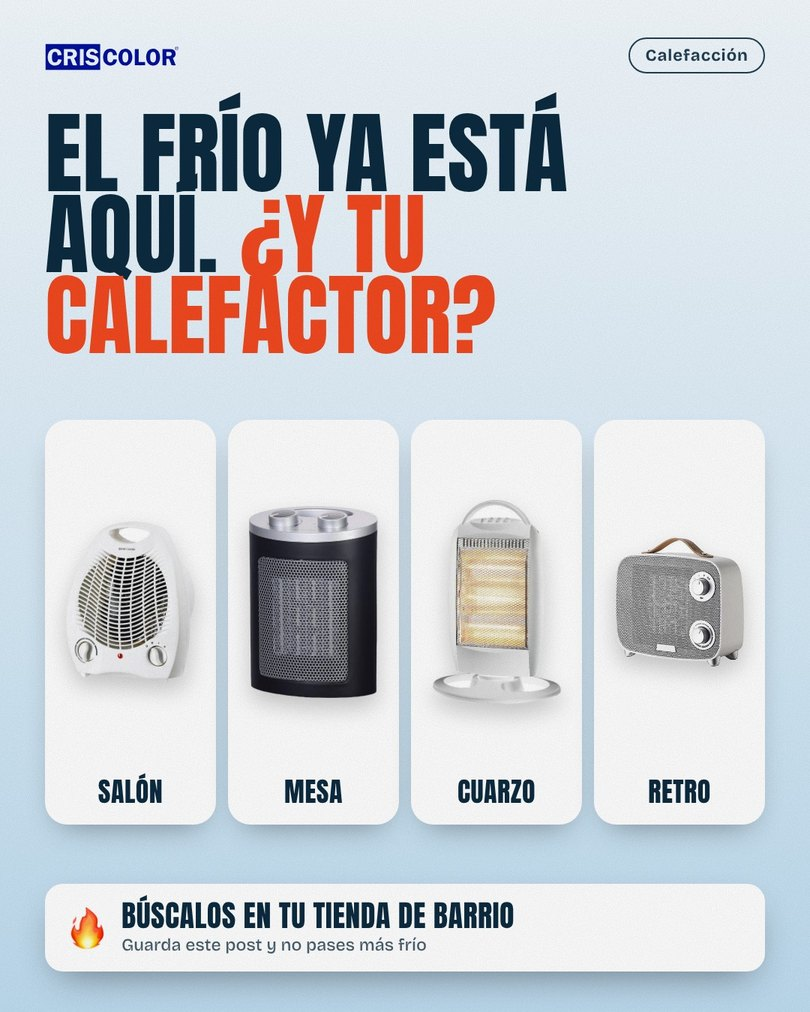
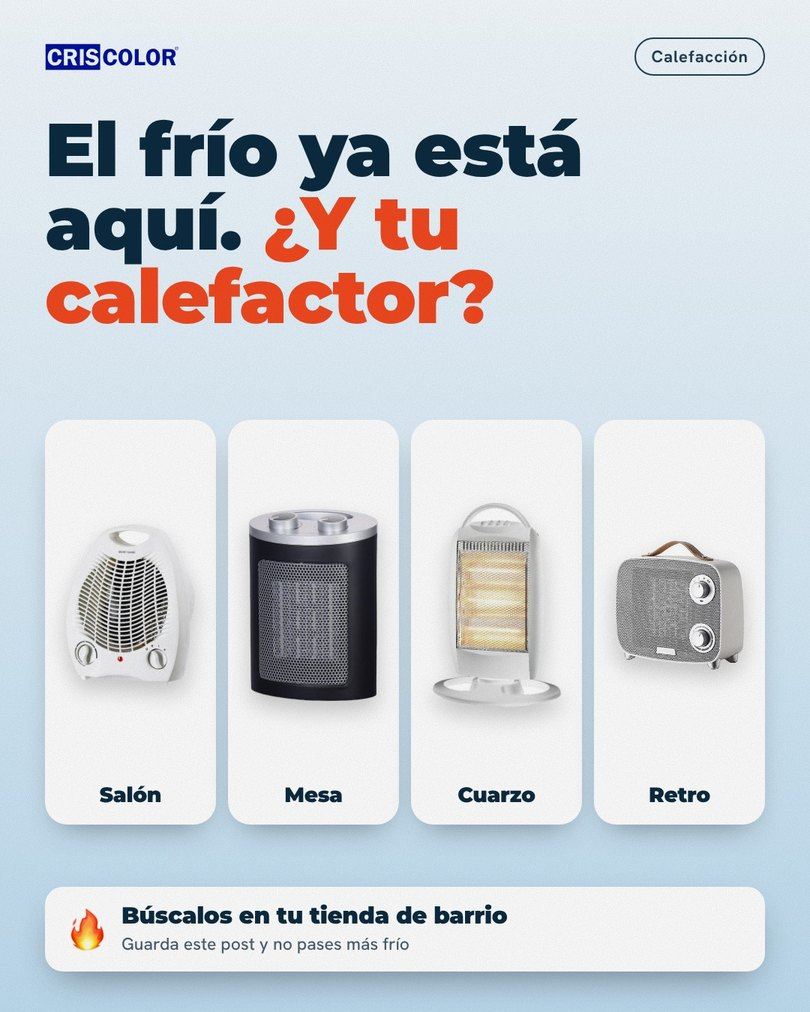
Tipografía de la web (Montserrat Black + Hanken Grotesk) en historias y posts
Claude-Session: https://claude.ai/code/session_016vX2tAnYJNsb3voomsbycX

diff --git a/data/weeks.js b/data/weeks.js
@@ -7,7 +7,7 @@ window.WEEKS = [
   "items": [
    {
     "id": "s46-lun",
-    "v": 1,
+    "v": 2,
     "type": "story",
     "day": "Lunes",
     "date": "9 nov",
@@ -17,7 +17,7 @@ window.WEEKS = [
    },
    {
     "id": "p46-mar",
-    "v": 1,
+    "v": 2,
     "type": "post",
     "day": "Martes",
     "date": "10 nov",
@@ -28,7 +28,7 @@ window.WEEKS = [
    },
    {
     "id": "s46-mie",
-    "v": 1,
+    "v": 2,
     "type": "story",
     "day": "Miércoles",
     "date": "11 nov",
@@ -38,7 +38,7 @@ window.WEEKS = [
    },
    {
     "id": "p46-jue",
-    "v": 1,
+    "v": 2,
     "type": "post",
     "day": "Jueves",
     "date": "12 nov",
@@ -49,7 +49,7 @@ window.WEEKS = [
    },
    {
     "id": "s46-vie",
-    "v": 1,
+    "v": 2,
     "type": "story",
     "day": "Viernes",
     "date": "13 nov",

diff --git a/index.html b/index.html
@@ -31,7 +31,7 @@
   </form>
 </div>
 
-<script src="/data/weeks.js?v=9"></script>
+<script src="/data/weeks.js?v=10"></script>
 <script src="/assets/app.js?v=4"></script>
 </body>
 </html>
